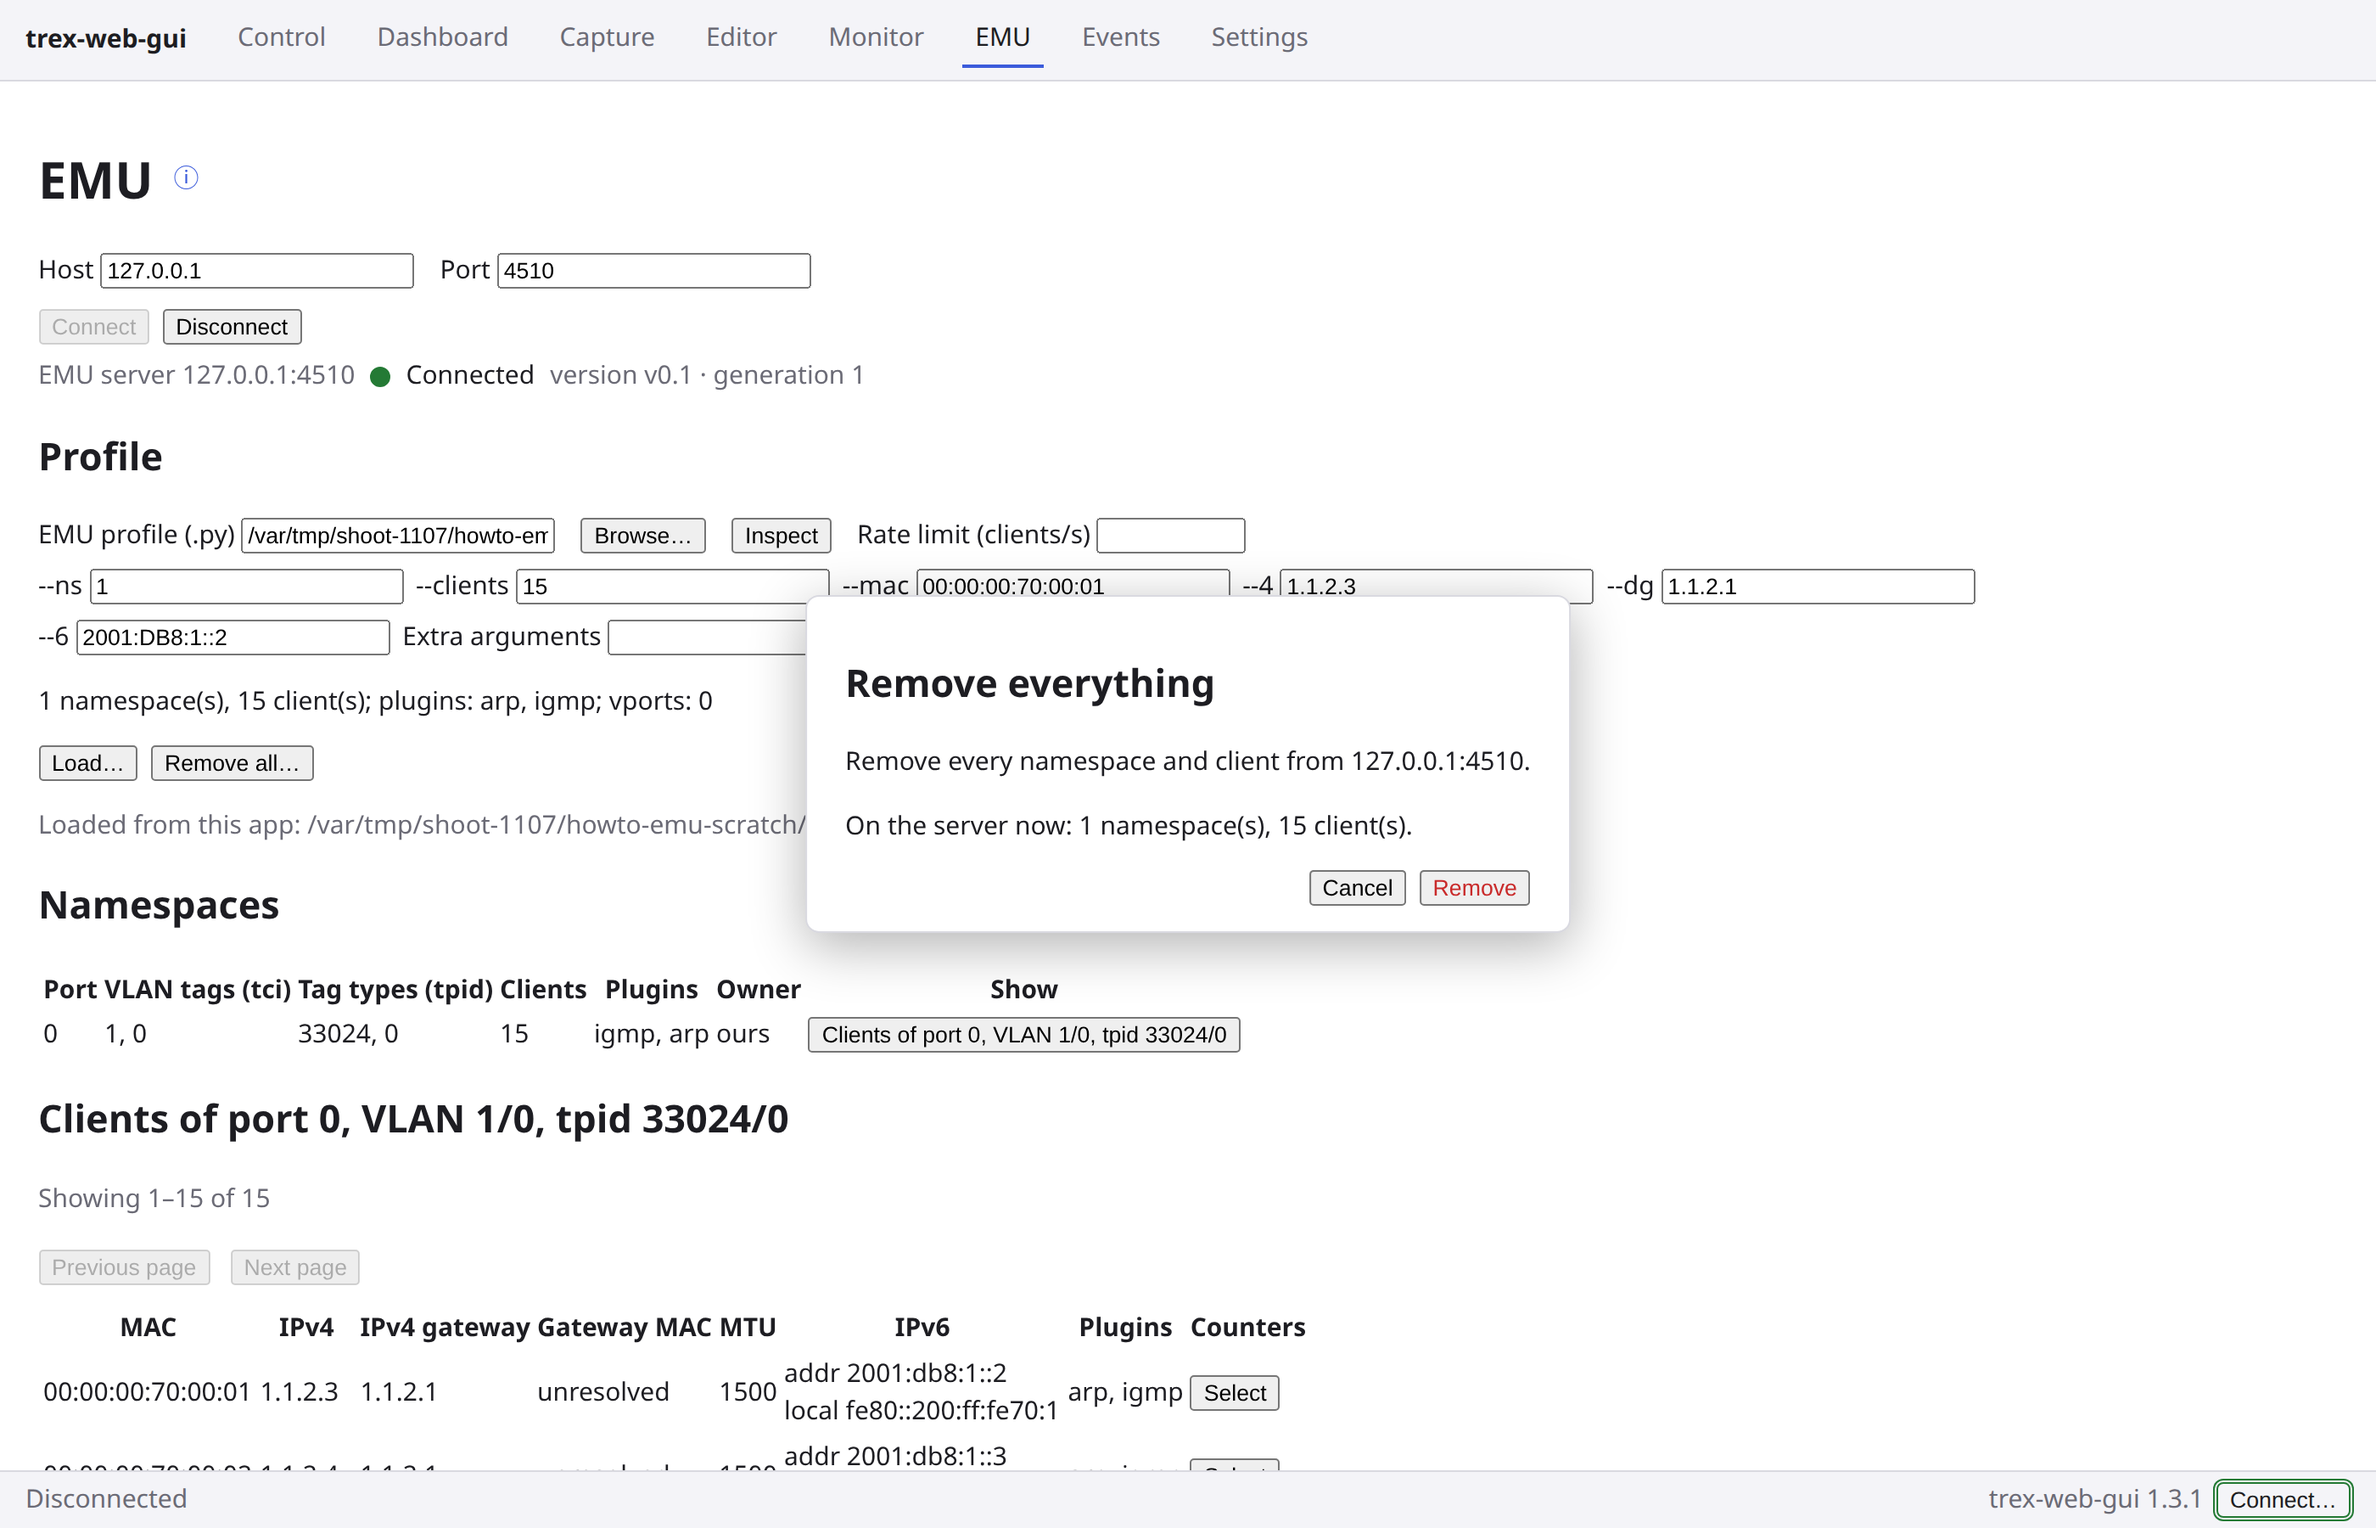
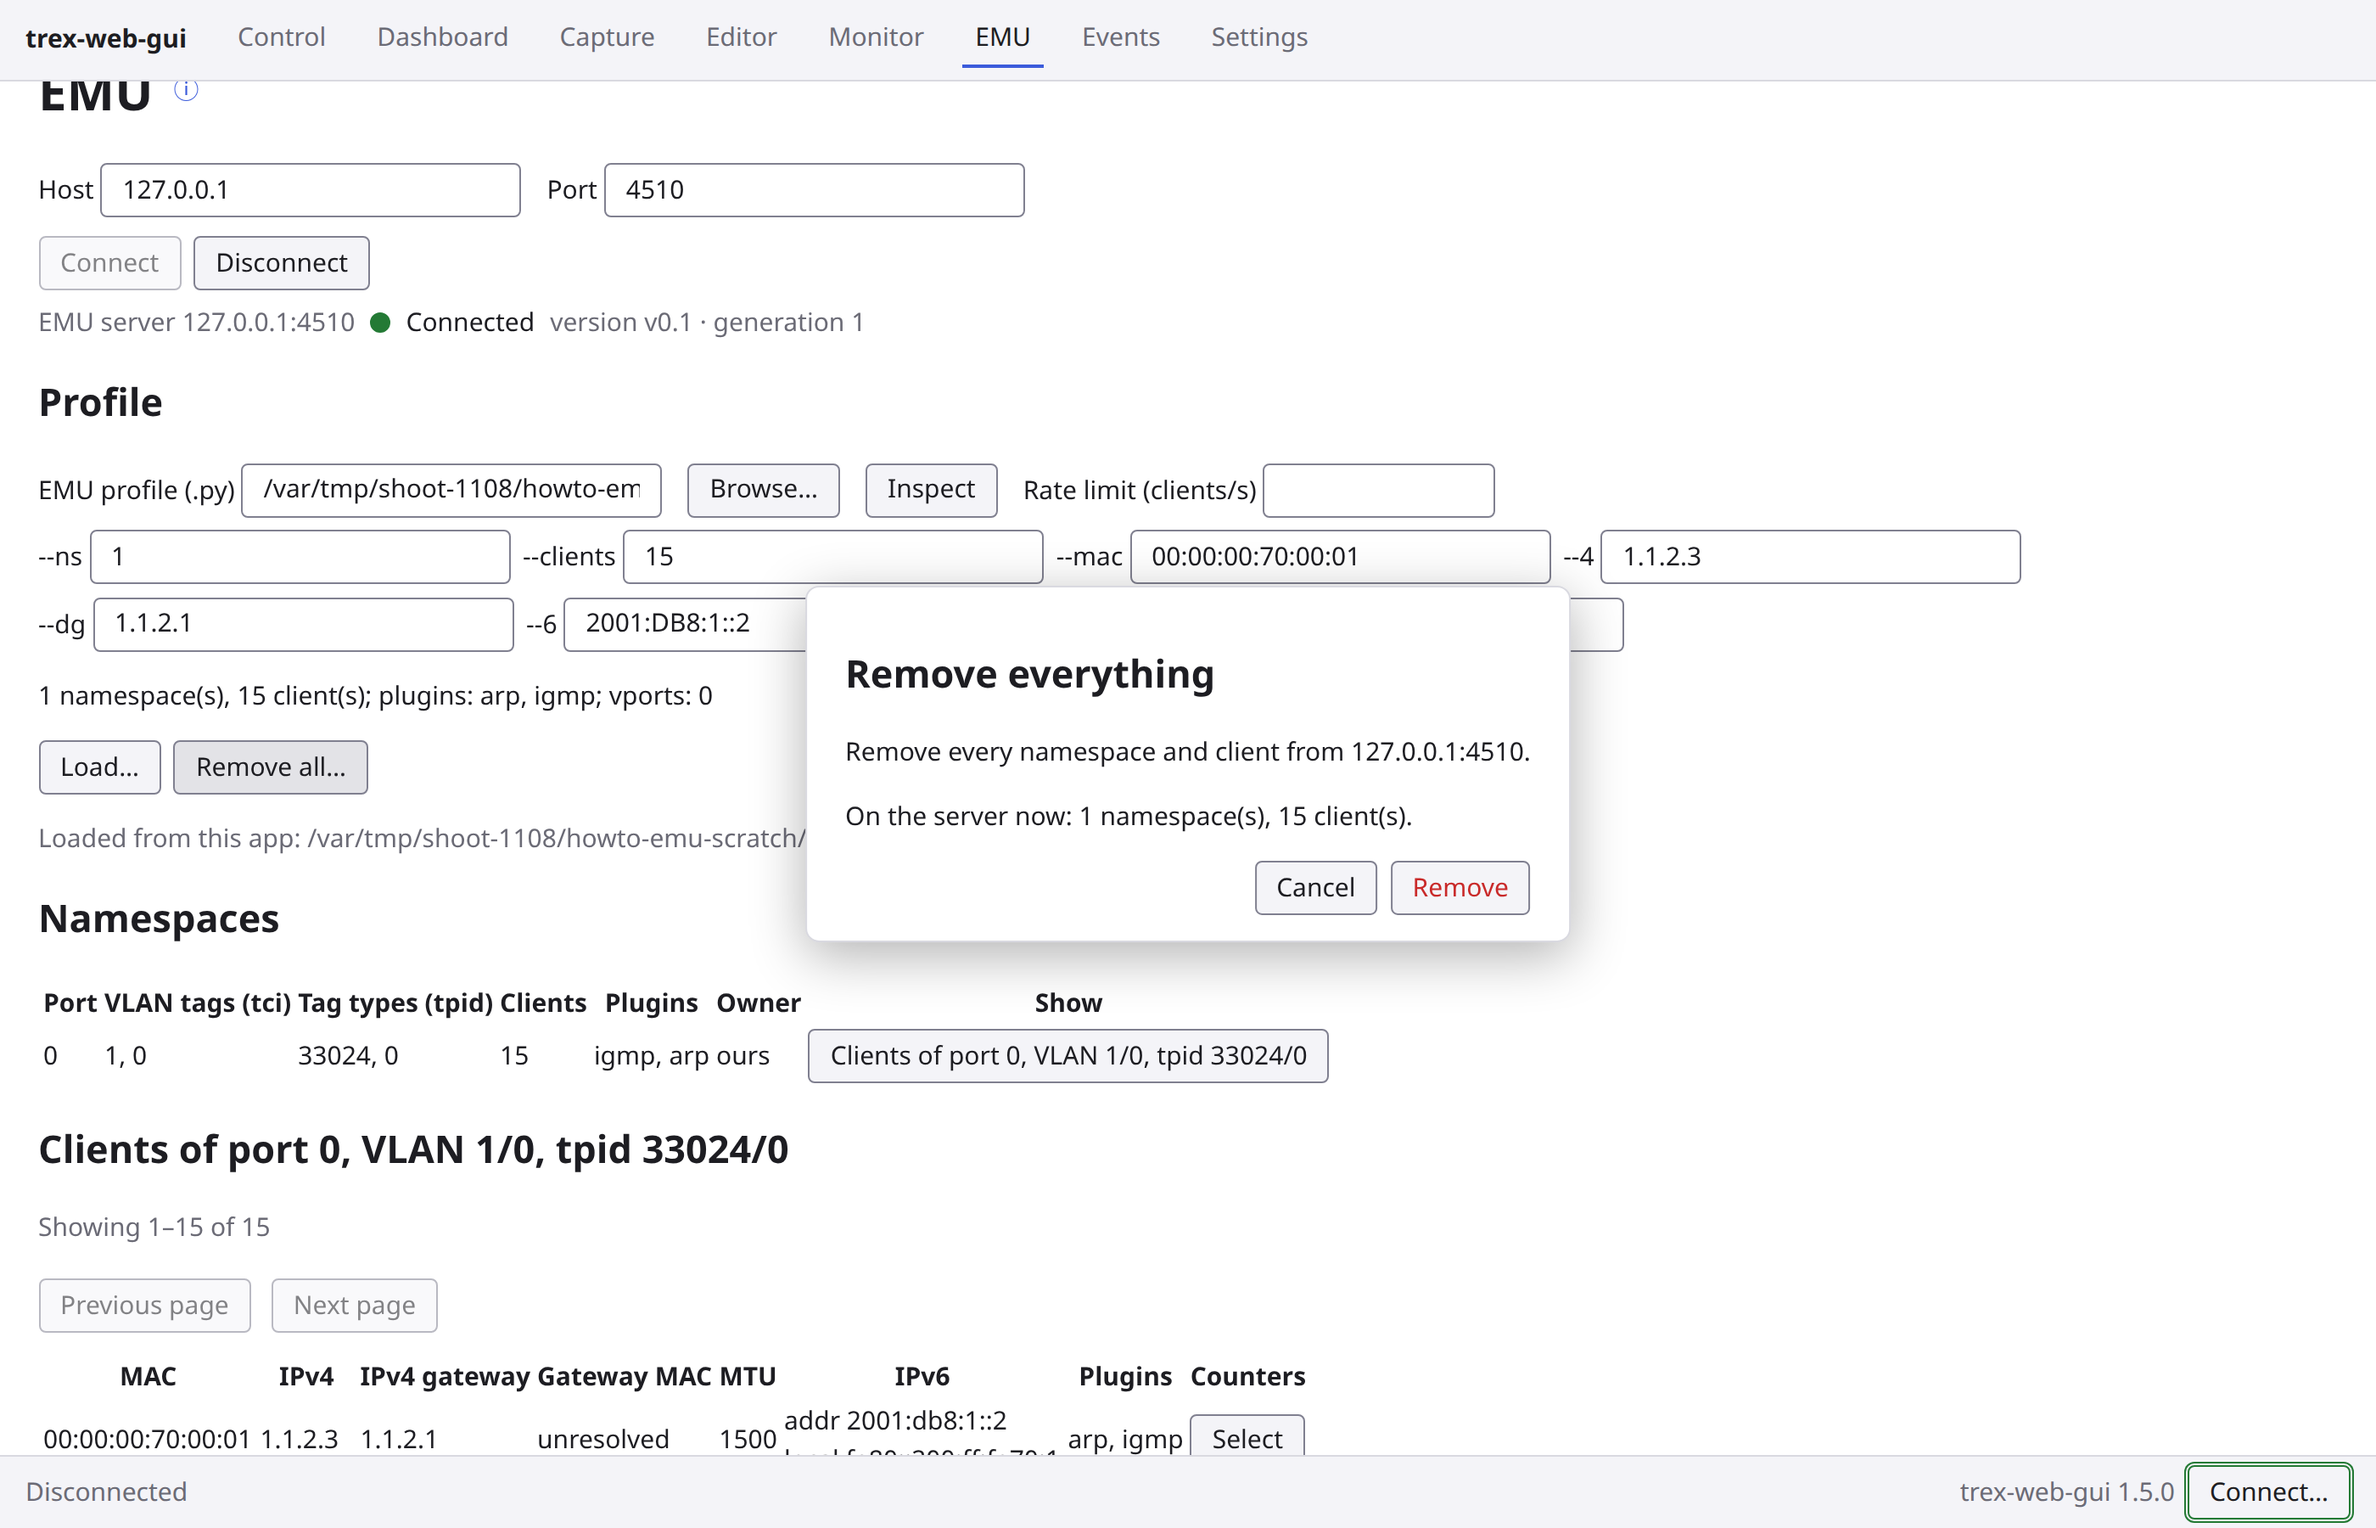
Re-shoot the EMU HOWTO's ten screens and inventory 49, 56 and 63 after 1.5.0
The EMU HOWTO screens were last shot on 1.3.1 (release-1.5.0-10); 49, 56 and 63
still showed the touching action buttons PR #114 spaced (release-1.5.0-9).

diff --git a/docs/gui-inventory/README.md b/docs/gui-inventory/README.md
@@ -2,6 +2,12 @@
 
 ## Scope
 
+**Three screens and the EMU HOWTO re-shot after 1.5.0 (2026-11-08).** [49](screens/49-capture-saved-files.png),
+[56](screens/56-settings-backup.png) and [63](screens/63-import-result.png) were shot again on `main` after 1.5.0, so
+Download and Delete, and Export settings… and Import settings…, show the space between them that PR #114 added; the
+other screens are unchanged (their status bars still read `1.4.1`). The EMU HOWTO's ten screens
+(`docs/howto/emu-screens/`, last shot on 1.3.1) were shot again on the same build and show the control look.
+
 **Re-shot for the control look (2026-11-08).** Every screen was shot again on the `control-tokens` branch (ui-recs-5),
 against the same guest, and the HOWTO's screens with them (About, [57](screens/57-settings-about.png), shows `1.4.1`).
 What changed on screen: buttons, text inputs and selects
